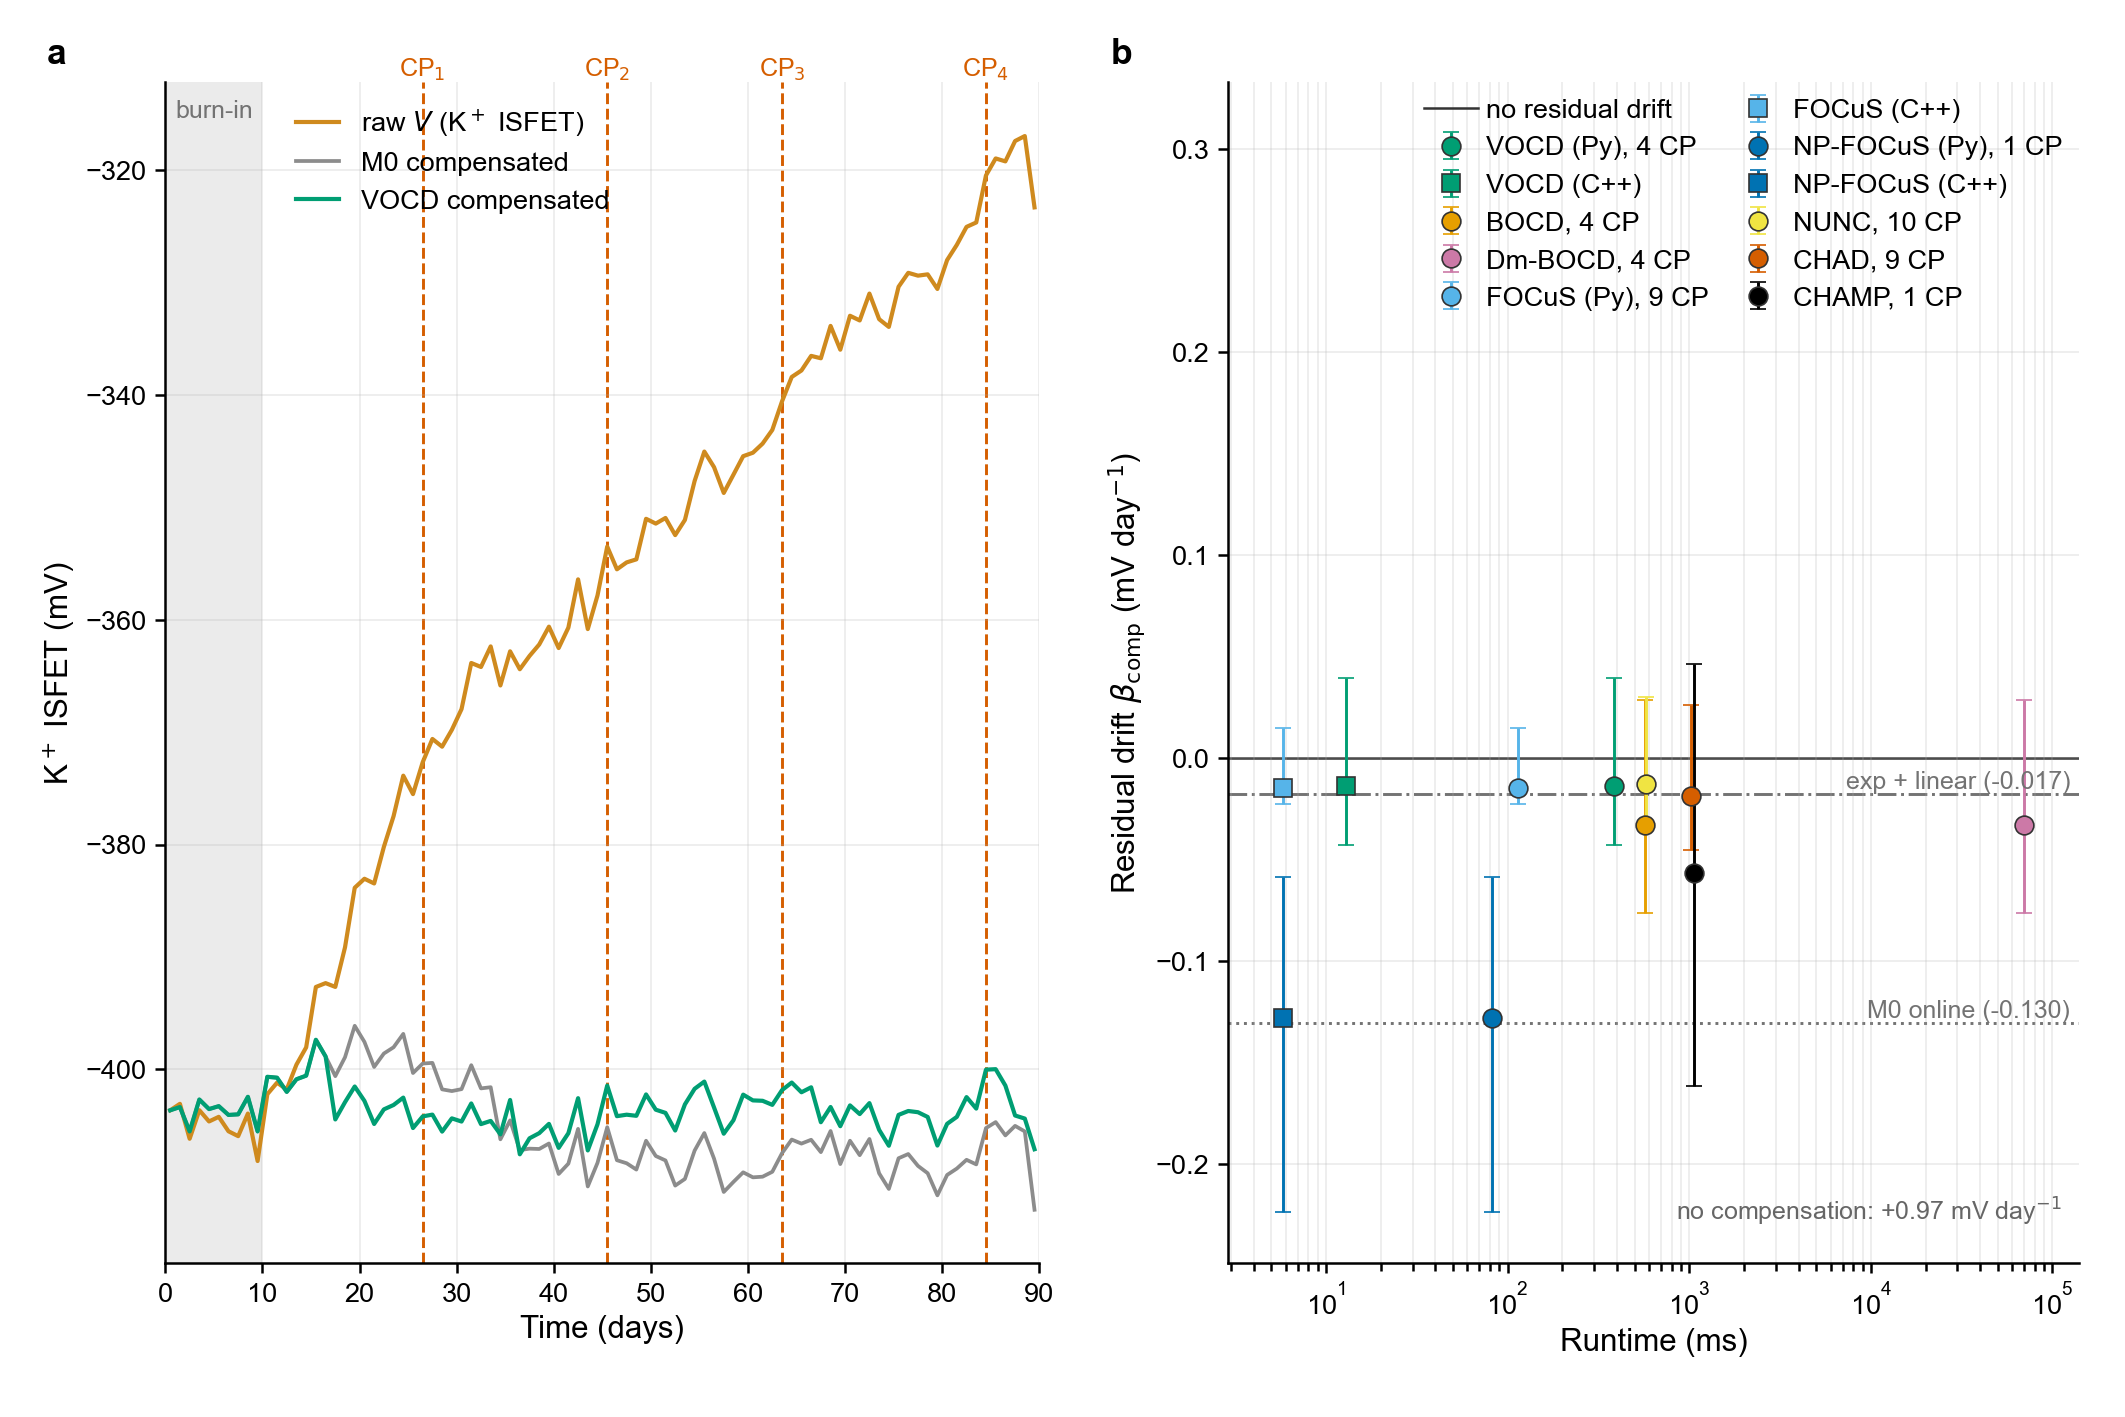
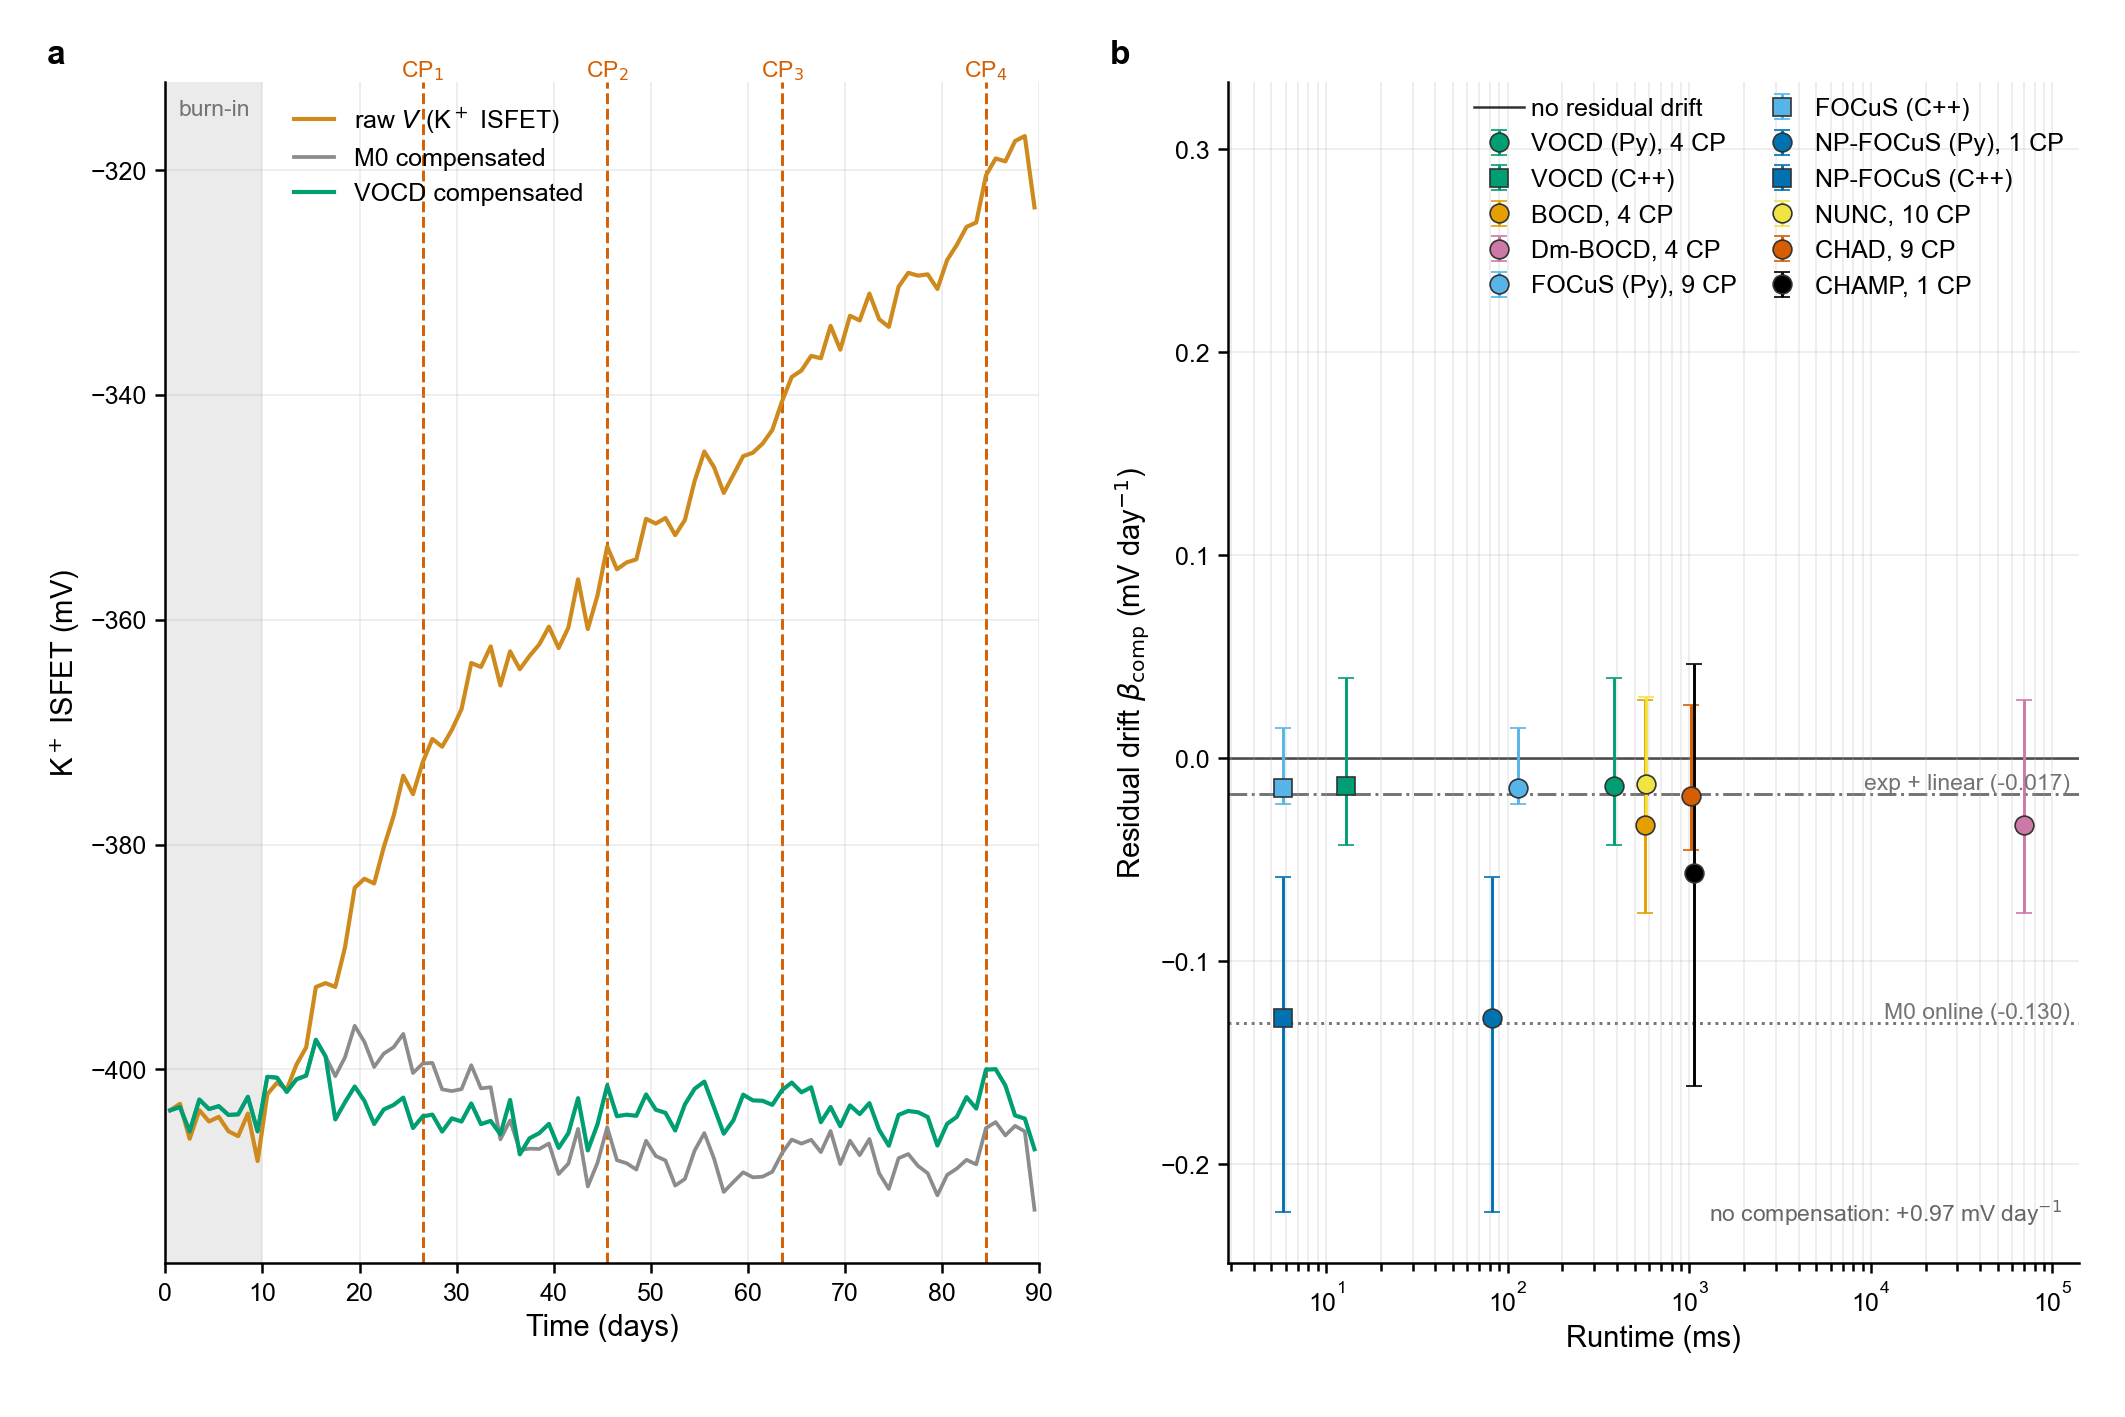
Point ISFET SI scripts at results/isfet_si; drop venue from docstrings

diff --git a/examples/vocd_fig2.py b/examples/vocd_fig2.py
@@ -1,5 +1,5 @@
 """
-Fig 2 (Nature-Communications style) — VOCD robustness. VOCD only.
+Fig 2 — VOCD robustness. VOCD only.
 
 Panels (no plot titles; bold lowercase panel letters; Arial):
   a  scheme: synthetic signal at 0/2/5/7/10/15/20% outliers (outliers in red)
@@ -82,7 +82,7 @@ TOP_FIELDS = {"verify_w": [15, 20, 25, 30, 40, 50], "dedup_w": [5, 10, 15, 20, 3
 SYNTH_CSV = os.path.join(_REPO, "results", "synthetic", "synthetic_v3_best.csv")
 
 # ── LAYOUT (mm, final print size; y from the top edge) ───────────────
-# Nature Portfolio production limits (also used by Nature Communications):
+# Nature Portfolio production limits:
 #   width  180 mm (double column; 88 mm single column)
 #   height 170 mm MAXIMUM, so the legend fits underneath on the same page
 #   text   7 pt maximum, 5 pt minimum; panel letters 8 pt bold lower-case
@@ -218,7 +218,7 @@ F = {}   # derived font sizes, filled by set_nature_style(base)
 
 def set_nature_style(base=7.0):
     """All text sizes derive from one base size in pt AT FINAL PRINT SIZE.
-    Nature Communications lettering is typically 7-8 pt; panel letters are
+    Journal lettering is typically 7-8 pt; panel letters are
     bold lower-case at about the same size."""
     import matplotlib as mpl
     F.update(base=base, label=base, tick=base - 1, legend=base - 1,

diff --git a/examples/si_isfet_na_k.py b/examples/si_isfet_na_k.py
@@ -42,7 +42,7 @@ stationary over the 90-day record.  The pH reference establishes this for H+;
 nothing establishes it for Na+/K+, so a real seasonal ionic trend would read as
 residual drift.
 
-Outputs (all in --out-dir, default ``si_isfet/``):
+Outputs (all in --out-dir, default ``results/isfet_si/``):
   si_isfet_summary.csv           one row per (ion, method): budget, metrics,
                                  runtime, CP days; RMSE columns filled for H+
   si_isfet_{ion}_series.csv      per-day V, every method's E0_hat and corrected V
@@ -473,7 +473,7 @@ def main() -> None:
     ap.add_argument("--dsm-path", default=None)
     ap.add_argument("--methods", default=PANEL)
     ap.add_argument("--no-baselines", action="store_true")
-    ap.add_argument("--out-dir", default="si_isfet")
+    ap.add_argument("--out-dir", default="results/isfet_si")
     # transferred budgets
     ap.add_argument("--h-best", default="results/isfet/isfet_v3_best.csv",
                     help="H+ best-operating-point CSV from isfet_data_v3.py --sweep")

diff --git a/examples/vocd_figS_isfet_na_k.py b/examples/vocd_figS_isfet_na_k.py
@@ -1,5 +1,5 @@
 """
-SI figures (Nature-Communications style) — ISFET Na+ and K+ drift compensation,
+SI figures — ISFET Na+ and K+ drift compensation,
 reference-free.  One figure per ion, two panels each, same style, palette and
 layout scheme as ``vocd_fig3_isfet.py`` (panels c and d there):
 
@@ -37,8 +37,8 @@ import os
 import numpy as np
 
 _REPO = os.path.dirname(os.path.dirname(os.path.abspath(__file__)))
-RES = os.path.join(_REPO, "si_isfet")
-OUTDIR = os.path.join(_REPO, "si_isfet", "figures")
+RES = os.path.join(_REPO, "results", "isfet_si")
+OUTDIR = os.path.join(_REPO, "results", "isfet_si", "figures")
 
 ION_TEX = {"na": r"Na$^+$", "k": r"K$^+$", "h": r"H$^+$"}
 

diff --git a/examples/vocd_figS_gas_diacetyl.py b/examples/vocd_figS_gas_diacetyl.py
@@ -1,5 +1,5 @@
 """
-SI figures (Nature-Communications style) — MOX gas-sensor baseline re-anchoring
+SI figures — MOX gas-sensor baseline re-anchoring
 on diacetyl (0.1 ppm and 1 ppm).  One figure per analyte, two panels each,
 same style, palette and panels as ``vocd_fig4_gas.py`` (panels c and d there)
 and same layout scheme as ``vocd_figS_isfet_na_k.py``:

diff --git a/examples/vocd_figS_dsm.py b/examples/vocd_figS_dsm.py
@@ -1,5 +1,5 @@
 """
-SI figures (Nature-Communications style) — classical CD benchmarks of the
+SI figures — classical CD benchmarks of the
 DSM-bocd paper, one figure each (Supplementary Figs. 7, 8 and 9).  Same style
 and palette as the other figures of the paper.  Each figure is one signal
 panel and, below it, one row per detector with the CPs it places:

diff --git a/examples/vocd_fig4_gas.py b/examples/vocd_fig4_gas.py
@@ -1,5 +1,5 @@
 """
-Fig 4 (Nature-Communications style) — MOX gas-sensor (e-nose) drift compensation
+Fig 4 — MOX gas-sensor (e-nose) drift compensation
 
 Panels (bold lower-case letters; Arial; built AT FINAL PRINT SIZE):
   a  experiment: compressed air -> mass-flow controller -> humidifier -> sample

diff --git a/examples/vocd_fig5_env.py b/examples/vocd_fig5_env.py
@@ -1,5 +1,5 @@
 """
-Fig 5 (Nature-Communications style) — environmental monitoring: change-points vs
+Fig 5 — environmental monitoring: change-points vs
 extreme-weather events in NoVA stream/reservoir water quality (2020-21).
 
 Panels (bold lower-case letters; Arial; built AT FINAL PRINT SIZE):

diff --git a/examples/vocd_figS_env_sweep.py b/examples/vocd_figS_env_sweep.py
@@ -1,5 +1,5 @@
 """
-SI figure (Nature-Communications style) — environmental monitoring, operating-
+SI figure — environmental monitoring, operating-
 point robustness (Supplementary Fig. 5).  Same style, palette and layout scheme
 as ``vocd_figS_isfet_na_k.py`` / ``vocd_figS_gas_diacetyl.py``:
 

diff --git a/examples/vocd_figS_scaling.py b/examples/vocd_figS_scaling.py
@@ -1,5 +1,5 @@
 """
-SI figure (Nature-Communications style) — runtime scaling with series length
+SI figure — runtime scaling with series length
 (Supplementary Fig. 10).  Same style and palette as the other figures:
 
   a  total runtime (ms) vs series length T, log-log, every detector (Python

diff --git a/examples/vocd_fig1.py b/examples/vocd_fig1.py
@@ -1,5 +1,5 @@
 """
-Fig 1 (Nature-Communications style) — VOCD pipeline overview. Schematic only.
+Fig 1 — VOCD pipeline overview. Schematic only.
 
 Panels (no plot titles; bold lowercase panel letters; Arial):
   a  full pipeline, start to finish: input time series (with change-points and

diff --git a/examples/vocd_fig3_isfet.py b/examples/vocd_fig3_isfet.py
@@ -1,5 +1,5 @@
 """
-Fig 3 (Nature-Communications style) — ISFET (H+) drift correction.
+Fig 3 — ISFET (H+) drift correction.
 
 Panels (bold lower-case letters; Arial; built AT FINAL PRINT SIZE):
   a  experiment: river intake -> reference pH probe -> ISFET probe -> readout,

diff --git a/examples/vocd_figS_env_null.py b/examples/vocd_figS_env_null.py
@@ -1,5 +1,5 @@
 """
-SI figure (Nature-Communications style) — environmental monitoring, shifted-
+SI figure — environmental monitoring, shifted-
 date null (Supplementary Fig. 6).  Same style, palette and layout scheme as
 the other SI figures:
 
